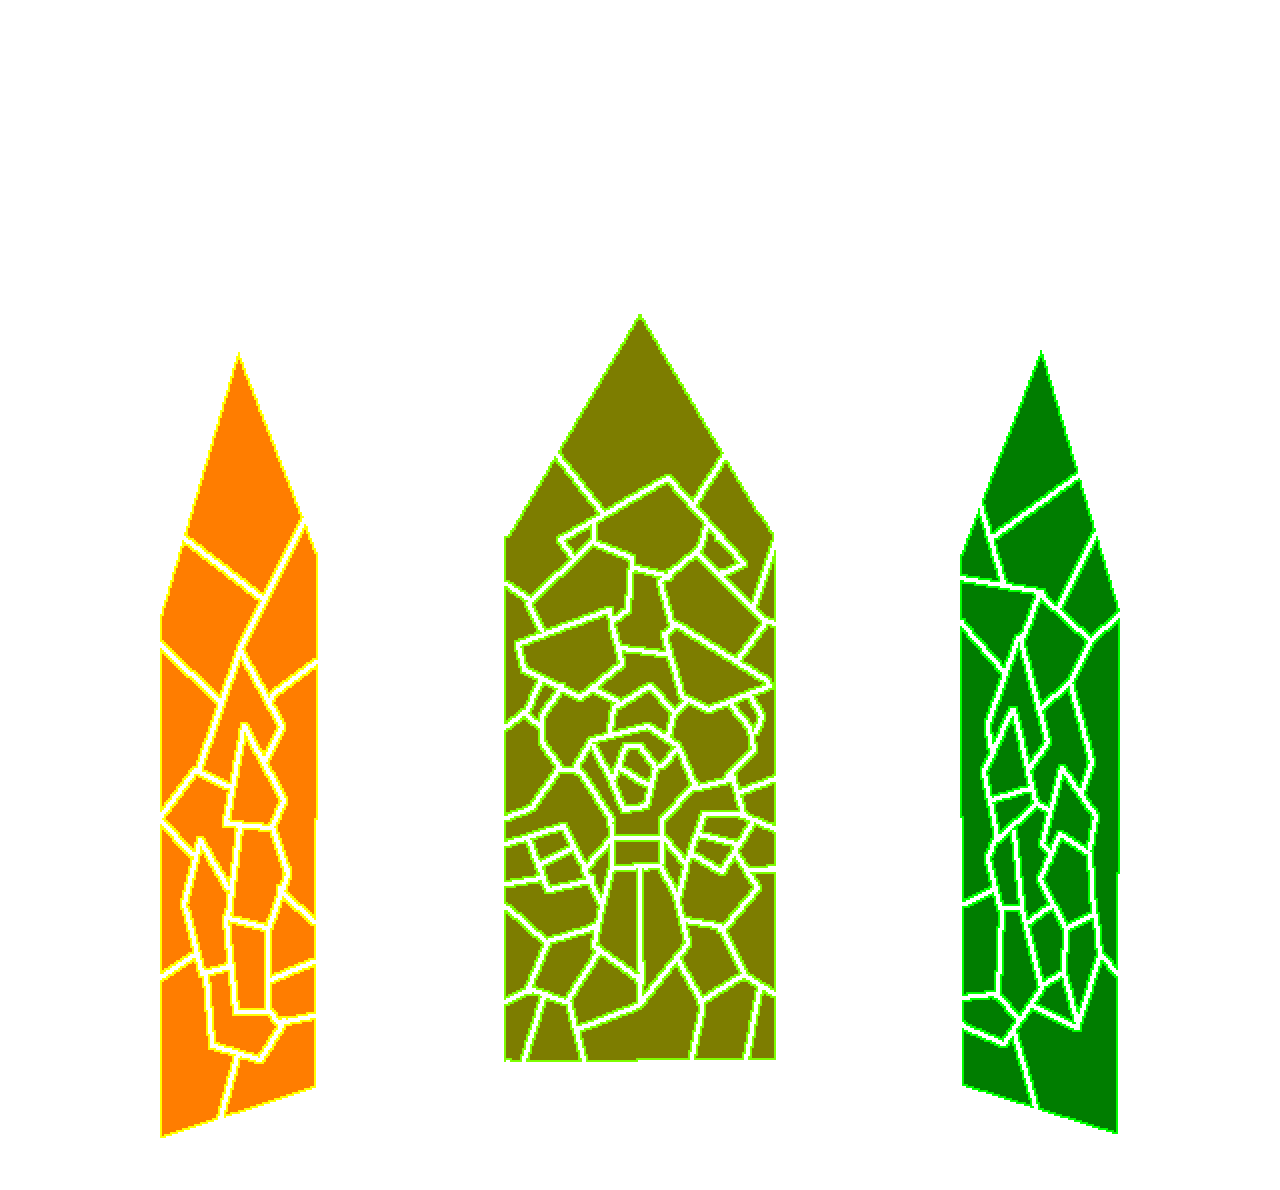
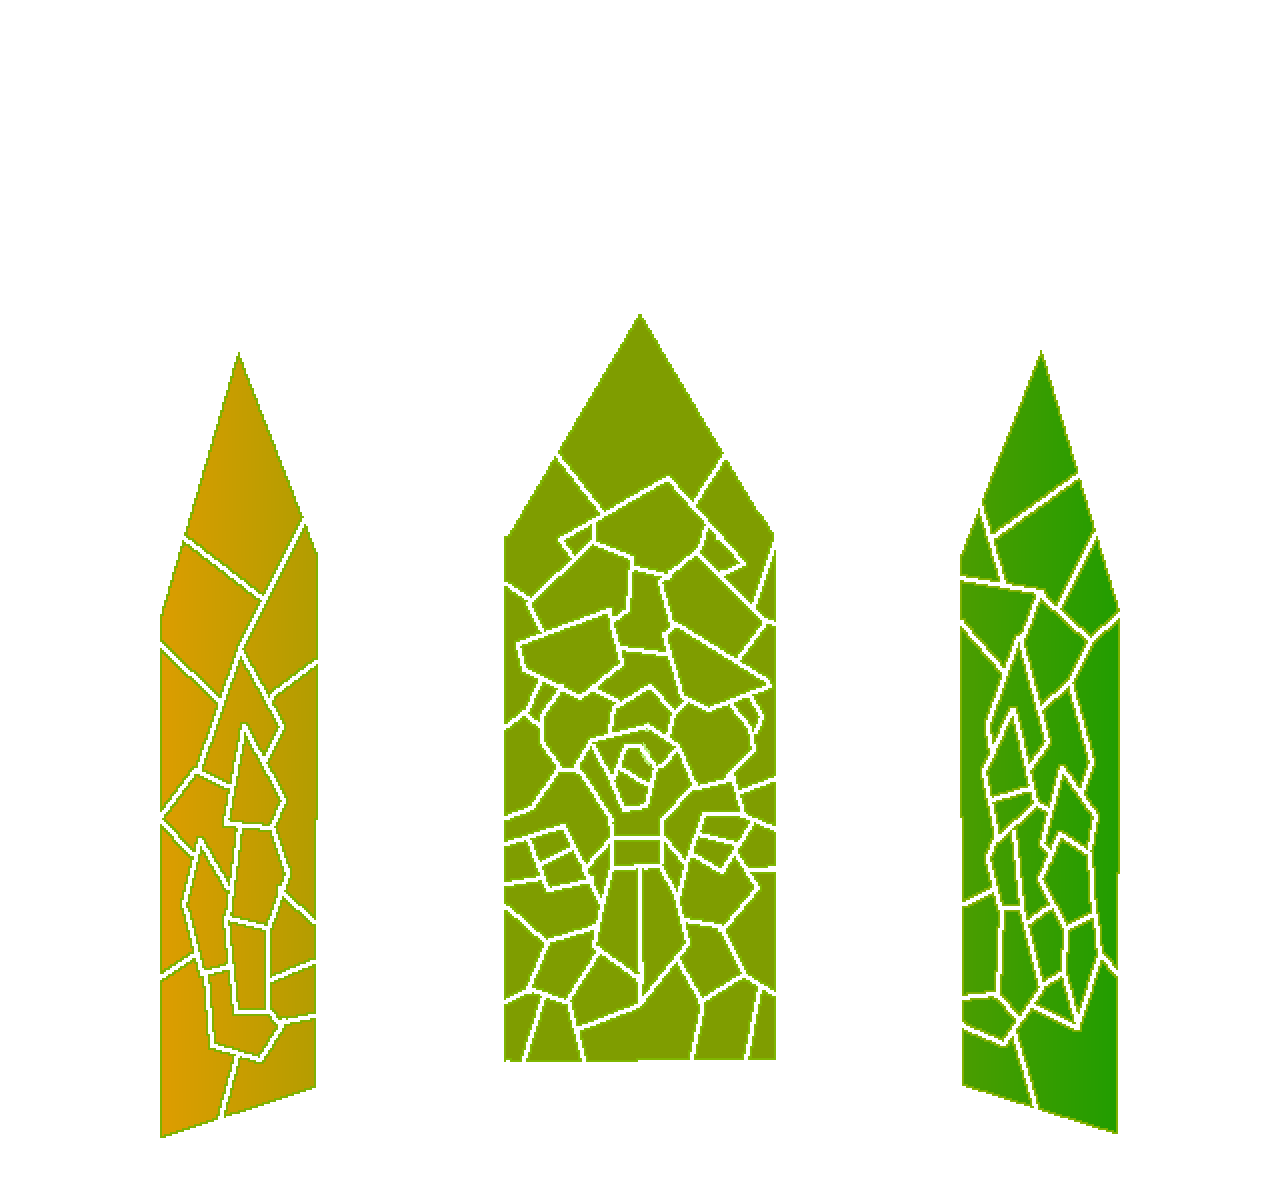
Adjusted window reflection

Changed region(s): [[0.375, 0.2798, 0.625, 0.9017], [0.75, 0.3109, 0.875, 0.9639], [0.125, 0.3109, 0.25, 0.9639]]

diff --git a/Content/Bosses/SquidBoss/NPCs.ArenaActor.cs b/Content/Bosses/SquidBoss/NPCs.ArenaActor.cs
@@ -266,7 +266,9 @@ namespace StarlightRiver.Content.Bosses.SquidBoss
             if (arena != null)
             {
                 Texture2D reflectionMap = Request<Texture2D>(AssetDirectory.SquidBoss + "WindowInMap").Value;
-                spriteBatch.Draw(reflectionMap, NPC.Center + new Vector2(0, -7 * 16 - 3) - Main.screenPosition, Color.White);
+                var color = Color.White;
+                color.A = (byte)(NPC.AnyNPCs(NPCType<SquidBoss>()) ? 100 : 200);
+                spriteBatch.Draw(reflectionMap, arena.Center + new Vector2(0, -7 * 16 - 3) - Main.screenPosition, null, color, 0, reflectionMap.Size() / 2, 1, 0, 0);
             }
         }
 

diff --git a/Content/Items/Debug.cs b/Content/Items/Debug.cs
@@ -49,6 +49,7 @@ namespace StarlightRiver.Content.Items
 
 		public override bool? UseItem(Player player)
         {
+            Main.NewText("Poopsdssy");
             return true;
 
             player.GetModPlayer<Abilities.AbilityHandler>().StaminaMaxBonus = 20;
